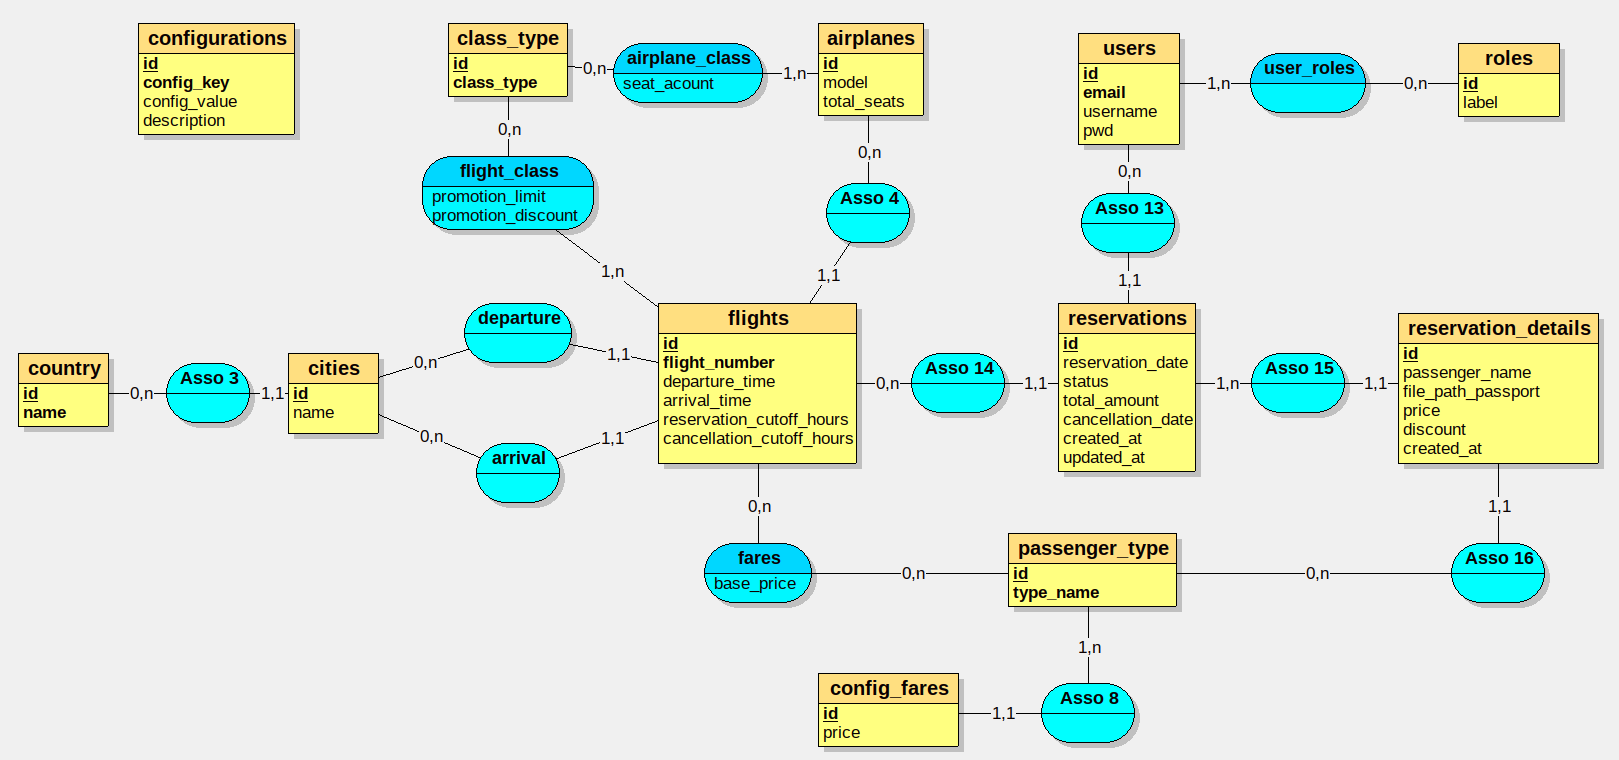
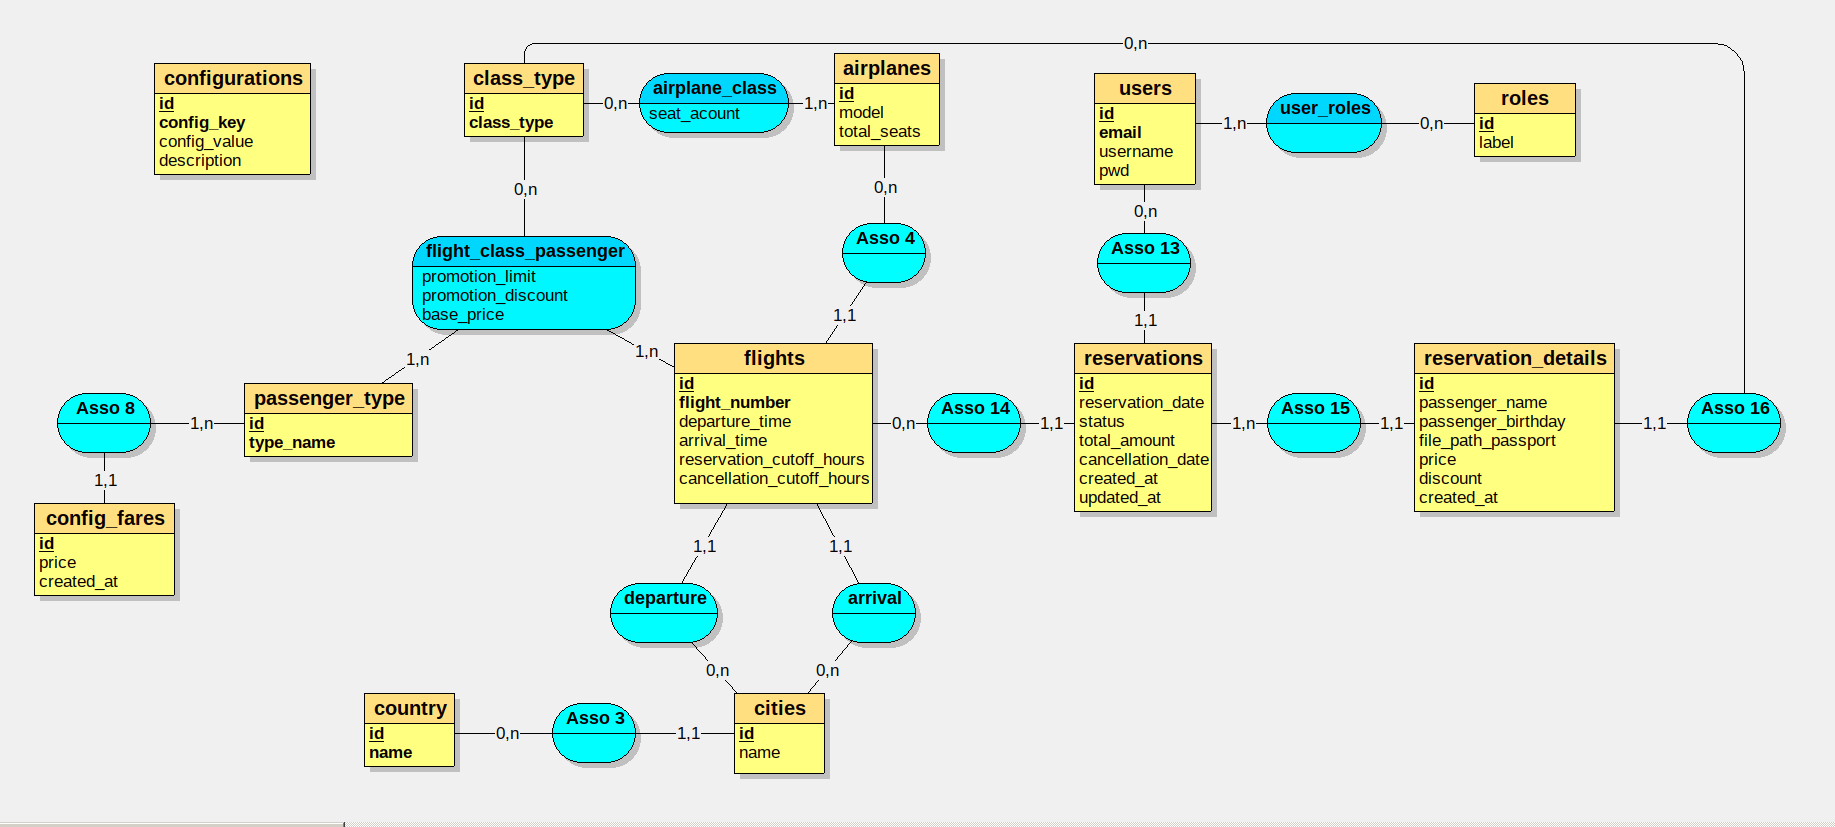
[FLIGHT] ajout du tarifs et promotions par classe et type de passager

diff --git a/examples/Ticketing/src/main/java/mg/itu/avion/controller/FlightController.java b/examples/Ticketing/src/main/java/mg/itu/avion/controller/FlightController.java
@@ -11,16 +11,26 @@ import com.ETU1792.annotation.Role;
 import com.ETU1792.utils.ModelView;
 
 import java.time.LocalDateTime;
+import java.util.HashMap;
 import java.util.List;
+import java.util.Map;
 
 import mg.itu.avion.airplane.AirplaneRepository;
 import mg.itu.avion.airplane.AirplaneService;
+import mg.itu.avion.airplane.ClassRepository;
+import mg.itu.avion.airplane.ClassService;
 import mg.itu.avion.city.CityRepository;
 import mg.itu.avion.city.CityService;
 import mg.itu.avion.config.ConfigKey;
 import mg.itu.avion.config.ConfigurationRepository;
 import mg.itu.avion.config.ConfigurationService;
 import mg.itu.avion.flight.*;
+import mg.itu.avion.passenger.ConfigFares;
+import mg.itu.avion.passenger.ConfigFaresRepository;
+import mg.itu.avion.passenger.ConfigFaresService;
+import mg.itu.avion.passenger.PassengerType;
+import mg.itu.avion.passenger.PassengerTypeRepository;
+import mg.itu.avion.passenger.PassengerTypeService;
 import mg.itu.avion.utils.MyBatisUtil;
 
 @Controller
@@ -28,16 +38,24 @@ import mg.itu.avion.utils.MyBatisUtil;
 @Role("ADMIN")
 public class FlightController {
     
-    private FlightService flightService;
-    private AirplaneService airplaneService;
-    private CityService cityService;
-    private ConfigurationService configurationService;
+    private final FlightService flightService;
+    private final AirplaneService airplaneService;
+    private final CityService cityService;
+    private final ConfigurationService configurationService;
+    private final FlightClassPassengerService flightClassPassengerService;
+    private final ClassService classService;
+    private final PassengerTypeService passengerTypeService;
+    private final ConfigFaresService configFaresService;
     
     public FlightController() {
         this.flightService = new FlightService(new FlightRepository(MyBatisUtil.getSqlSessionFactory()));
         this.airplaneService = new AirplaneService(new AirplaneRepository(MyBatisUtil.getSqlSessionFactory()));
         this.cityService = new CityService(new CityRepository(MyBatisUtil.getSqlSessionFactory()));
         this.configurationService = new ConfigurationService(new ConfigurationRepository(MyBatisUtil.getSqlSessionFactory()));
+        this.flightClassPassengerService = new FlightClassPassengerService(new FlightClassPassengerRepository(MyBatisUtil.getSqlSessionFactory()));
+        this.classService = new ClassService(new ClassRepository(MyBatisUtil.getSqlSessionFactory()));
+        this.passengerTypeService = new PassengerTypeService(new PassengerTypeRepository(MyBatisUtil.getSqlSessionFactory()));
+        this.configFaresService = new ConfigFaresService(new ConfigFaresRepository(MyBatisUtil.getSqlSessionFactory()));
     }
     
     @GET("flights")
@@ -53,18 +71,67 @@ public class FlightController {
         ModelView mv = new ModelView("/admin/flights/add.jsp");
         mv.addObject("airplanes", airplaneService.getAllAirplanes());
         mv.addObject("cities", cityService.getAllCities());
+        mv.addObject("classes", classService.getAllClasses());
+        mv.addObject("passengerTypes", passengerTypeService.getAllPassengerTypes());
         mv.addObject("reservation_cutoff_hours", configurationService.getConfigurationByKey(ConfigKey.RESERVATION_CUTOFF_HOURS.getDatabaseKey()).getConfigValue());
         mv.addObject("cancellation_cutoff_hours", configurationService.getConfigurationByKey(ConfigKey.CANCELLATION_CUTOFF_HOURS.getDatabaseKey()).getConfigValue());
+        mv.addObject("promotion_limit", configurationService.getConfigurationByKey(ConfigKey.PROMOTION_LIMIT.getDatabaseKey()).getConfigValue());
+        mv.addObject("promotion_discount", configurationService.getConfigurationByKey(ConfigKey.PROMOTION_DISCOUNT.getDatabaseKey()).getConfigValue());
+        
+        // Récupérer les tarifs par défaut pour chaque type de passager
+        Map<Integer, Double> defaultPrices = new HashMap<>();
+        for (PassengerType passengerType : passengerTypeService.getAllPassengerTypes()) {
+            ConfigFares latestFares = configFaresService.getLatestConfigFaresByPassengerType(passengerType.getId());
+            defaultPrices.put(passengerType.getId(), latestFares != null ? latestFares.getPrice() : 0.0);
+        }
+        mv.addObject("defaultPrices", defaultPrices);
+
+
+        // Calcul des dates de départ et d'arrivée par défaut
+        LocalDateTime now = LocalDateTime.now();
+        mv.addObject("defaultDepartureTime", now.withHour(8).withMinute(0));
+        mv.addObject("defaultArrivalTime", now.plusDays(1).withHour(10).withMinute(0));
+
         return mv;
     }
+
     
     @POST("flights/add")
     @FormView("flights/add")
-    public ModelView addFlight(@ParamObject Flight newFlight) {
-        
+    public ModelView addFlight(@ParamObject Flight newFlight, @Param(name = "flightClassPassengerData") String flightClassPassengerData) {
+        // Enregistrer le vol
         newFlight.setCreatedAt(LocalDateTime.now());
         flightService.createFlight(newFlight);
-        
+    
+        // Découper la chaîne pour extraire les données
+        if (flightClassPassengerData != null && !flightClassPassengerData.isEmpty()) {
+            String[] entries = flightClassPassengerData.split("\\|"); // Séparer chaque entrée par "|"
+    
+            for (String entry : entries) {
+                String[] fields = entry.split(","); // Séparer chaque champ par ","
+                if (fields.length == 5) {
+                    Integer classId = Integer.parseInt(fields[0]);
+                    Integer passengerTypeId = Integer.parseInt(fields[1]);
+                    Double basePrice = Double.parseDouble(fields[2]);
+                    Integer promotionLimit = Integer.parseInt(fields[3]);
+                    Double promotionDiscount = Double.parseDouble(fields[4]);
+    
+                    // Créer un objet FlightClassPassenger
+                    FlightClassPassenger fcp = new FlightClassPassenger();
+                    fcp.setFlightId(newFlight.getId());
+                    fcp.setClassId(classId);
+                    fcp.setPassengerTypeId(passengerTypeId);
+                    fcp.setBasePrice(basePrice);
+                    fcp.setPromotionLimit(promotionLimit);
+                    fcp.setPromotionDiscount(promotionDiscount);
+    
+                    // Enregistrer dans la base de données
+                    flightClassPassengerService.addFlightClassPassenger(fcp);
+                }
+            }
+        }
+    
+        // Redirection vers la liste des vols
         ModelView mv = new ModelView("flights");
         mv.setIsRedirect(true);
         return mv;

diff --git a/examples/Ticketing/src/main/java/mg/itu/avion/flight/FlightClassPassengerRepository.java b/examples/Ticketing/src/main/java/mg/itu/avion/flight/FlightClassPassengerRepository.java
@@ -1,0 +1,28 @@
+package mg.itu.avion.flight;
+
+import org.apache.ibatis.session.SqlSession;
+import org.apache.ibatis.session.SqlSessionFactory;
+import java.util.List;
+
+public class FlightClassPassengerRepository {
+    private SqlSessionFactory sqlSessionFactory;
+
+    public FlightClassPassengerRepository(SqlSessionFactory sqlSessionFactory) {
+        this.sqlSessionFactory = sqlSessionFactory;
+    }
+
+    public void saveFlightClassPassenger(FlightClassPassenger flightClassPassenger) {
+        try (SqlSession session = sqlSessionFactory.openSession()) {
+            FlightClassPassengerMapper mapper = session.getMapper(FlightClassPassengerMapper.class);
+            mapper.insertFlightClassPassenger(flightClassPassenger);
+            session.commit();
+        }
+    }
+
+    public List<FlightClassPassenger> getFlightClassPassengersByFlightId(Integer flightId) {
+        try (SqlSession session = sqlSessionFactory.openSession()) {
+            FlightClassPassengerMapper mapper = session.getMapper(FlightClassPassengerMapper.class);
+            return mapper.getFlightClassPassengersByFlightId(flightId);
+        }
+    }
+}

diff --git a/examples/Ticketing/src/main/java/mg/itu/avion/utils/MyBatisUtil.java b/examples/Ticketing/src/main/java/mg/itu/avion/utils/MyBatisUtil.java
@@ -30,6 +30,11 @@ public class MyBatisUtil {
         configuration.addMapper(mg.itu.avion.city.CityMapper.class);
         configuration.addMapper(mg.itu.avion.city.CountryMapper.class);
         configuration.addMapper(mg.itu.avion.config.ConfigurationMapper.class);
+        configuration.addMapper(mg.itu.avion.airplane.ClassMapper.class);
+        configuration.addMapper(mg.itu.avion.passenger.PassengerTypeMapper.class);
+        configuration.addMapper(mg.itu.avion.reservation.ReservationMapper.class);
+        configuration.addMapper(mg.itu.avion.flight.FlightClassPassengerMapper.class);
+        configuration.addMapper(mg.itu.avion.passenger.ConfigFaresMapper.class);
 
         sqlSessionFactory = new SqlSessionFactoryBuilder().build(configuration);
     }

diff --git a/examples/Ticketing/src/main/java/mg/itu/avion/flight/FlightClassPassengerMapper.java b/examples/Ticketing/src/main/java/mg/itu/avion/flight/FlightClassPassengerMapper.java
@@ -1,0 +1,15 @@
+package mg.itu.avion.flight;
+
+import org.apache.ibatis.annotations.*;
+import java.util.List;
+
+public interface FlightClassPassengerMapper {
+
+    @Insert("INSERT INTO flight_class_passenger (flight_id, class_id, passenger_type_id, promotion_limit, promotion_discount, base_price) " +
+            "VALUES (#{flightId}, #{classId}, #{passengerTypeId}, #{promotionLimit}, #{promotionDiscount}, #{basePrice})")
+    @Options(useGeneratedKeys = true, keyProperty = "id")
+    void insertFlightClassPassenger(FlightClassPassenger flightClassPassenger);
+
+    @Select("SELECT * FROM flight_class_passenger WHERE flight_id = #{flightId}")
+    List<FlightClassPassenger> getFlightClassPassengersByFlightId(Integer flightId);
+}

diff --git a/examples/Ticketing/src/main/java/mg/itu/avion/flight/FlightClassPassengerService.java b/examples/Ticketing/src/main/java/mg/itu/avion/flight/FlightClassPassengerService.java
@@ -1,0 +1,19 @@
+package mg.itu.avion.flight;
+
+import java.util.List;
+
+public class FlightClassPassengerService {
+    private FlightClassPassengerRepository repository;
+
+    public FlightClassPassengerService(FlightClassPassengerRepository repository) {
+        this.repository = repository;
+    }
+
+    public void addFlightClassPassenger(FlightClassPassenger flightClassPassenger) {
+        repository.saveFlightClassPassenger(flightClassPassenger);
+    }
+
+    public List<FlightClassPassenger> getFlightClassPassengersByFlightId(Integer flightId) {
+        return repository.getFlightClassPassengersByFlightId(flightId);
+    }
+}

diff --git a/examples/Ticketing/src/main/java/mg/itu/avion/flight/FlightClassPassenger.java b/examples/Ticketing/src/main/java/mg/itu/avion/flight/FlightClassPassenger.java
@@ -1,0 +1,18 @@
+package mg.itu.avion.flight;
+
+import lombok.AllArgsConstructor;
+import lombok.Data;
+import lombok.NoArgsConstructor;
+
+@Data
+@NoArgsConstructor
+@AllArgsConstructor
+public class FlightClassPassenger {
+    private Integer id;
+    private Integer flightId;
+    private Integer classId;
+    private Integer passengerTypeId;
+    private Integer promotionLimit;
+    private Double promotionDiscount;
+    private Double basePrice;
+}
